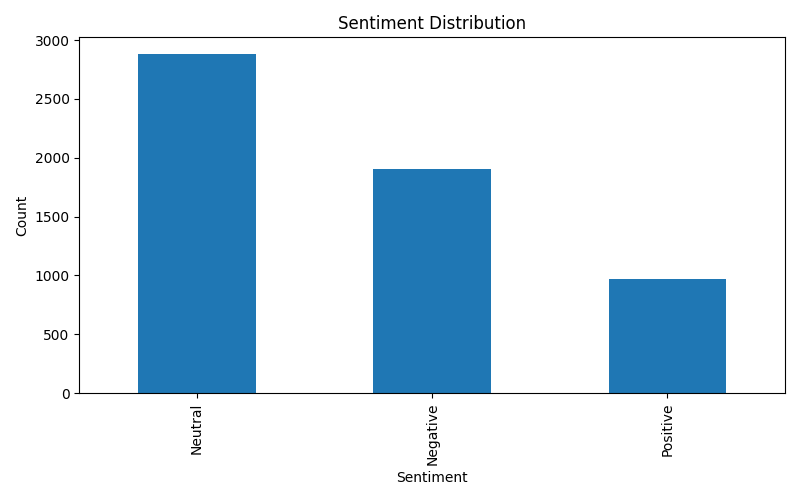
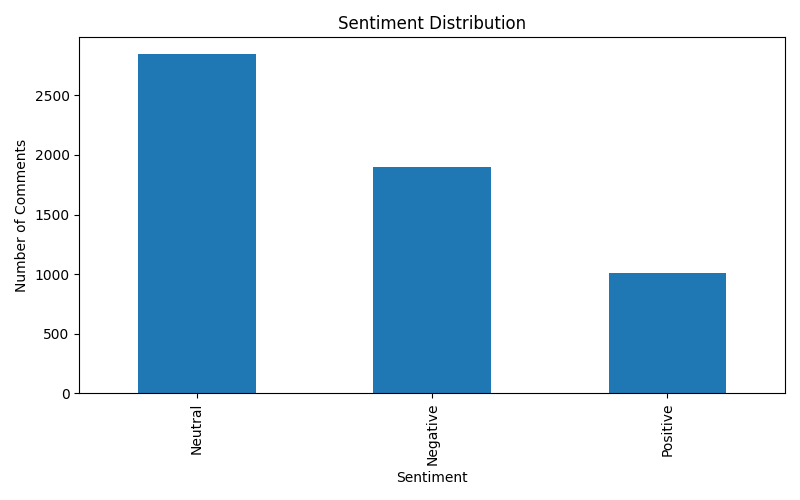
Clean project and update visualization

diff --git a/visualization.py b/visualization.py
@@ -1,19 +1,30 @@
 import pandas as pd
 import matplotlib.pyplot as plt
 
+# Đọc dữ liệu đã gán nhãn
 df = pd.read_csv("Sentiment_Labeled.csv")
 
+# Thống kê số lượng từng nhãn
 counts = df["sentiment"].value_counts()
 
-plt.figure(figsize=(8,5))
-counts.plot(kind="bar")
+print("\n===== PHÂN BỐ NHÃN CẢM XÚC =====")
+print(counts)
+
+# Vẽ biểu đồ
+plt.figure(figsize=(8, 5))
+
+counts.plot(
+    kind="bar"
+)
 
 plt.title("Sentiment Distribution")
 plt.xlabel("Sentiment")
-plt.ylabel("Count")
+plt.ylabel("Number of Comments")
 
 plt.tight_layout()
 
-plt.savefig("Sentiment_Distribution.png")
+plt.savefig(
+    "Sentiment_Distribution.png"
+)
 
-print("Đã lưu Sentiment_Distribution.png")
+print("\nĐã lưu Sentiment_Distribution.png")